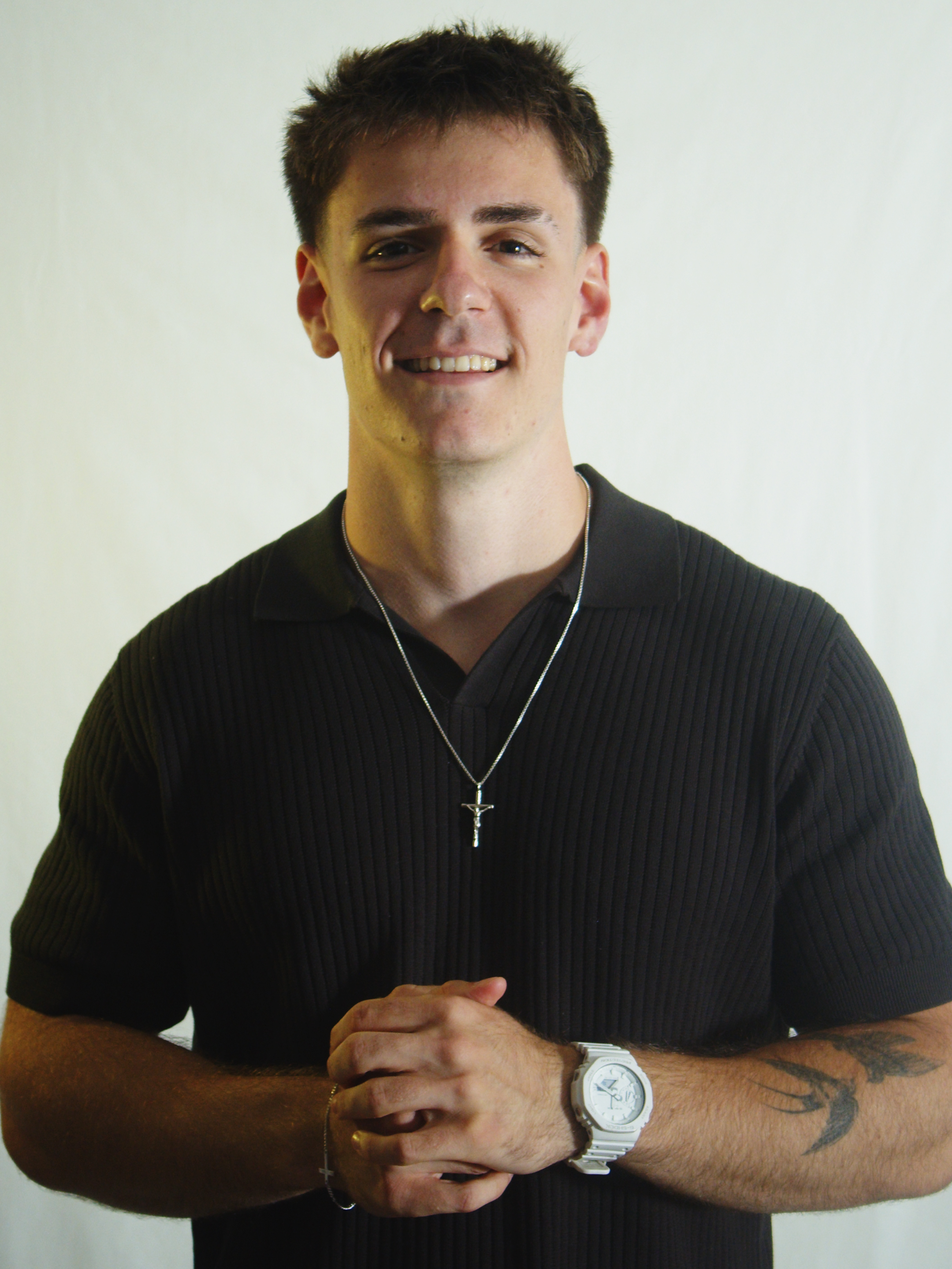
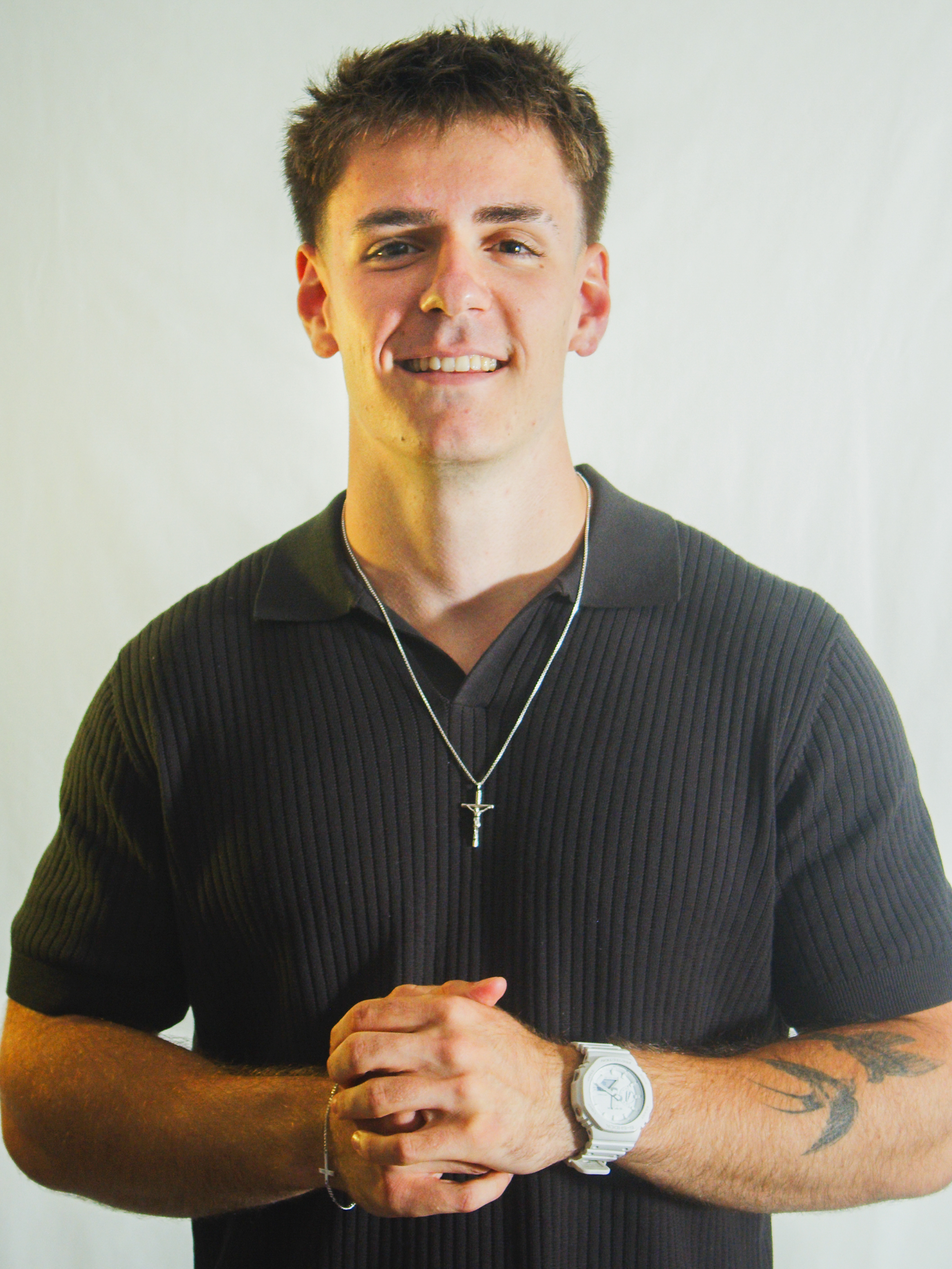
Update owner photos for Kaloyan and Georgi with new Lightroom exports

diff --git a/src/components/WhoWeAre.jsx b/src/components/WhoWeAre.jsx
@@ -4,7 +4,7 @@ const team = [
   {
     name: "Kaloyan Bachev",
     role: "Co-Founder",
-    image: "/photos-of-owners/32.jpg",
+    image: "/photos-of-owners/32.jpg?v=2",
     bio: `Калоян - оперативният мозък зад ккриейтив. Калоян е този, който ще измисли точно от кой ъгъл, с кой обектив и на каква светлина да се снима вашият кадър. При обработката вероятно ще отдели часове само за да измисли как видеото ви да бъде изпипано докрай.
 
 Само не го питайте въпроси, че ще почне да отговаря със сложни думи и термини…`
@@ -12,7 +12,7 @@ const team = [
   {
     name: "Georgi Kozarev",
     role: "Co-Founder",
-    image: "/photos-of-owners/38.jpg",
+    image: "/photos-of-owners/38.jpg?v=2",
     bio: `Георги - стратегът зад kkreativ. Той е човекът зад концепциите, стратегиите и анализите, които движат проектите ни. Не разбира от камери, не работи с After Effects, но разбира от нещо по-важно - какво кара хората да спрат, да гледат, да харесат и да споделят.
 
 През повечето време изглежда, сякаш не прави нищо. Но може би точно това е идеята - докато другите правят, той мисли.`
